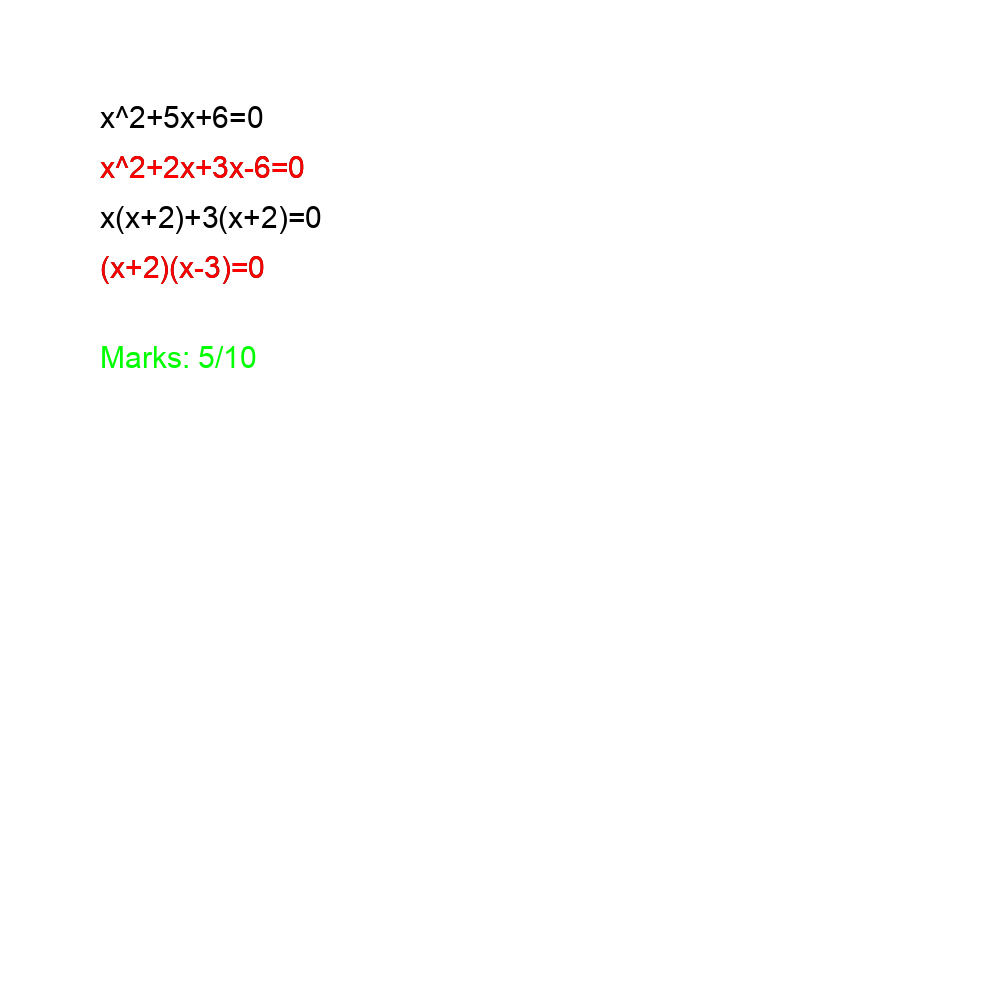
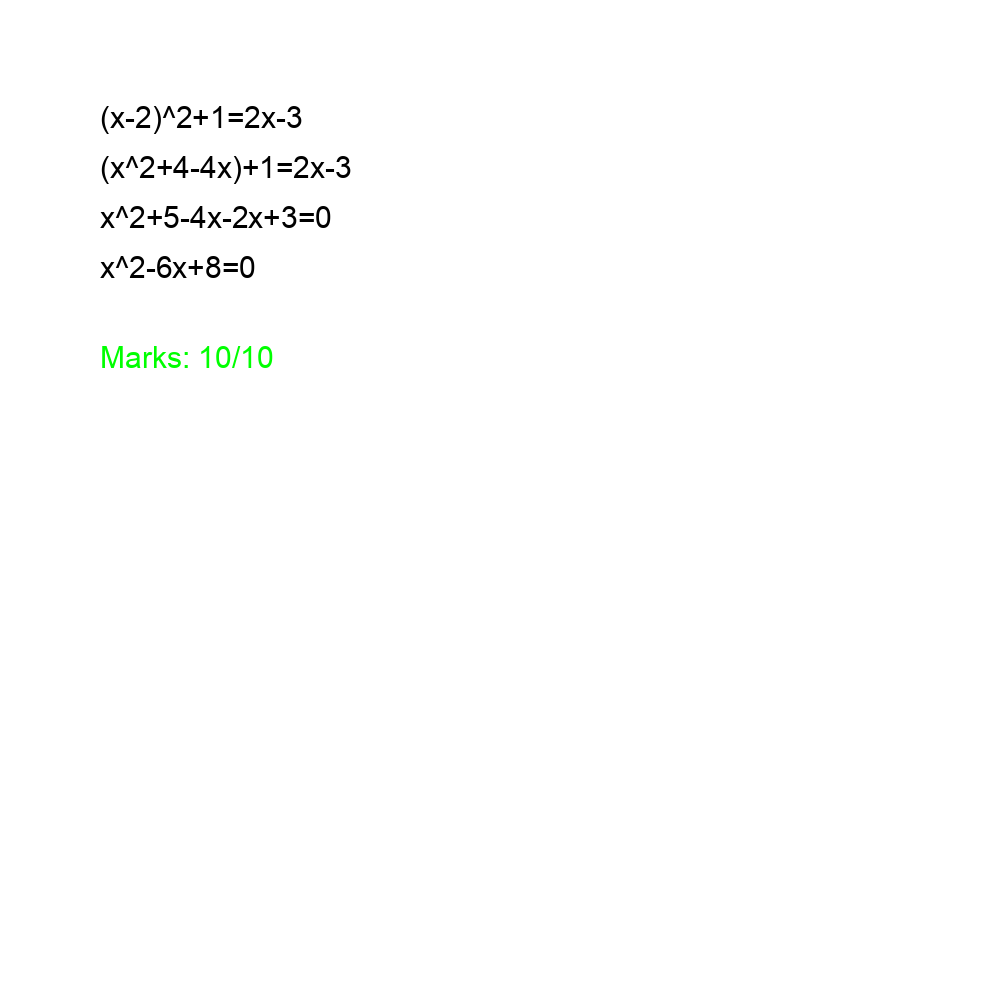
start new method

Changed region(s): [[0.093, 0.093, 0.372, 0.279], [0.186, 0.341, 0.279, 0.372]]

diff --git a/app/test/sample1.py b/app/test/sample1.py
@@ -1,42 +1,69 @@
+# import libraries
+import cv2
+import requests
+from sympy.printing.preview import preview
+from PIL import Image, ImageFont, ImageDraw
+from pix2tex.cli import LatexOCR
+import base64
+import numpy as np
 from latex2sympy2 import latex2sympy, latex2latex
 import re
-# from pix2tex.cli import LatexOCR
 import matplotlib.pyplot as plt
-from PIL import Image
 
 
-# def image_to_latex(image_path):
-#     img = Image.open(image_path)
-#     model = LatexOCR()
-#     extracted_text = model(img)
-#     return extracted_text
+def open_camera():
+    # Initialize webcam
+    # cap = cv2.VideoCapture(0)
+    cap = cv2.VideoCapture("http://192.168.1.100:4747/video")
+
+    # Capture an image when space key is pressed
+    while True:
+        ret, frame = cap.read()
+        cv2.imshow("Image Capture", frame)
+        if cv2.waitKey(1) == ord(" "):
+            cv2.imwrite("app/images/captured_image.png", frame)
+            break
+
+    # Release webcam and close all windows
+    cap.release()
+    cv2.destroyAllWindows()
+
+    # Return captured image
+    return frame
+
+
+def image_to_latex(image_path):
+    img = Image.open(image_path)
+    model = LatexOCR()
+    extracted_text = model(img)
+    extracted_text = r"\left." + extracted_text + r"\right."
+    return extracted_text
 
 
 def split_into_equations(s):
-    # replace ' ' with ''   
-    s = s.replace(' ','')
+    # print(s)
+    # Remove unnecessary spaces and line breaks
+    s = s.replace(" ", "").replace("\n", "")
 
     # Pattern to identify the starting and ending points of each equation
     pattern = r"\\begin\{array\}\{[a-zA-Z]\}(.*?)\\end\{array\}"
 
     # Search for the pattern in the string
     matches = re.findall(pattern, s)
-    
-    # Remove leading and trailing curly braces and split equations based on '\\'
-    equations = [match.strip("{}").split("\\\\") for match in matches]
 
-    # Flatten the list of equations and remove leading/trailing whitespace
-    equations = [eq.strip() for sublist in equations for eq in sublist]
+    # Extract the equations from the matches and split them based on '\\\\' separator
+    equations = [match.split("\\\\") for match in matches]
 
-    # Remove first '{' or last '}'  
-    equations = [eq[1:] if eq[0] == '{' else eq for eq in equations]
-    equations = [eq[:-1] if eq[-1] == '}' else eq for eq in equations]
-    
+    # Flatten the list of equations
+    equations = [eq for sublist in equations for eq in sublist]
+
+    # Remove any leading or trailing curly braces
+    equations = [eq.replace("{", "").replace("}", "").strip() for eq in equations]
+
     return equations
 
 
 def solve_equations(latex_equations):
-    # convert latex to sympy
     sympy_equations = []
     for latex_equation in latex_equations:
         sympy_equation = latex2latex(latex_equation)
@@ -45,7 +72,7 @@ def solve_equations(latex_equations):
 
 
 def check_equations(solved_equations):
-    print(solved_equations)
+    # print(solved_equations)
     first_result = solved_equations[0]
 
     # check if the equations are the same
@@ -64,31 +91,78 @@ def show_the_mistake(mistake_line_numbers, equations):
     return
 
 
-# testing
-# image_path = "app\images\correct.png"
-# image_path = "app\images\wrong1.png"
-# image_path = "app\images\wrong2.png"
-# image_path = "app\images\Capture2.PNG"
-# latex_str = image_to_latex(image_path)
-# print(latex_str)
-#added r"\left." and r"\right." to the latex_str
-# latex_str = r"\left." + latex_str + r"\right."
+def output(splitted_equations, mistake_line_numbers, marks):
+    # create a new image
+    img = Image.new("RGB", (1000, 1000), color=(255, 255, 255))
+    img.save("app/result/output.png")
+
+    # draw the equations
+    font = ImageFont.truetype("arial.ttf", 30)
+    d = ImageDraw.Draw(img)
+    # draw in middle
+    for i in range(len(splitted_equations)):
+        d.text((100, 100 + 50 * i), 
+        f"{splitted_equations[i]}",
+        fill=(0, 0, 0), font=font)
+
+    # mark the mistake
+    for i in mistake_line_numbers:
+        # d.text((10, (i - 1) * 20), splitted_equations[i - 1], fill=(255, 0, 0), font=font)
+        d.text(
+            (100, 100 + 50 * (i - 1)),
+            f"{splitted_equations[i - 1]}",
+            fill=(255, 0, 0),
+            font=font,
+        )
+
+    # draw the marks green color \n \n
+    d.text((100, 100 + 60 * len(splitted_equations)), f"Marks: {marks}", fill=(0, 255, 0), font=font)
 
 
-# latex_str = r"\begin{array}{c}{{\displaystyle\int_{1}^{2}{\frac{\displaystyle3}{2x^{2}+x-1}}{\displaystyle dx}}}\\\\{{\displaystyle\int_{1}^{2}{\frac{\displaystyle3}{\displaystyle(2x-1)(x+1)}}{\displaystyle dx}}}\\\\{{\displaystyle\int_{1}^{2}{\frac{\displaystyle2}{\displaystyle(2x-1)}}+{\frac{\displaystyle1}{\displaystyle(x+1)}}{\displaystyle dx}}}\\\\{{{\frac{\displaystyle(2\ln3)}{\displaystyle2}-\frac{\displaystyle(2\ln1)}{\displaystyle2}}}}\\\\\ln( 9/2)\end{array}"  # wrong
-# latex_str = r"\left.\begin{array}{l}{x^{2}+5x+6=0}\\{x^{2}+2x+3x-6=0}\\{(x+2)(x-3)=0}\end{array}\right." #correct
-latex_str = r"\left.\begin{array}{c}{\int _{1}^{2}\dfrac{3}{2x^{2}+x-1}dx}\\{\int _{1}^{2}\dfrac{3}{( 2x-1)(x+1)}dx}\\{\int _{1}^{2}\dfrac{2}{(2x-1)}+\dfrac{1}{(x+1)}dx}\\{\dfrac{(2\ln3)}{2}-\dfrac{(2\ln1)}{2}}\\{\ln(9/2)}\end{array}\right."
-latex_str = r"\left.\begin{array}{c}{\int _{1}^{2}\dfrac{3}{2x^{2}+x-1}dx}\\{\int _{1}^{2}\dfrac{3}{( 2x-1)(x+1)}dx}\\{\int _{1}^{2}\dfrac{2}{(2x-1)}+\dfrac{-1}{(x+1)}dx}\\{\dfrac{(2\ln3)}{2}-\dfrac{(2\ln1)}{2}-(\ln3-\ln2)}\\{\ln2}\end{array}\right."
-splited_equations = split_into_equations(latex_str)
-print(splited_equations)
+    # save the image and preview it
+    img.save("app/result/output.png")
+    img.show()
 
-# splited_equations = ["x^2+5x+6=0", "x^2+2x+3x-6=0", "(x+2)(x+3)=0"]
-solved_equations = solve_equations(splited_equations)
-print(solved_equations)
-mistake_line_numbers = check_equations(solved_equations)
 
-# where the mistake
-if len(mistake_line_numbers) == 0:
-    print("No mistake! Good job!")
-else:
-    show_the_mistake(mistake_line_numbers, splited_equations)
+# main function
+if __name__ == "__main__":
+    # step 1: open camera
+    # image = open_camera()
+
+    # step 2: preview image
+    # cv2.imshow("Image Preview", image)
+    # cv2.waitKey(0)
+    # cv2.destroyAllWindows()
+
+    # step 3: image to latex
+    # image_path = "app\images\demo1.png"     # no mistake
+    # image_path = "app\images\demo2.png"   # mistake in line 2
+    # image_path = "app\images\demo3.png"   # mistake in line 2 and 3
+
+    # latex_str = image_to_latex(image_path)
+    latex_str = r"\left.\begin{array}{c}{(x-2)^2+1=2x-3}\\{(x^2+4-4x)+1=2x-3}\\{x^2+5-4x-2x+3=0}\\{x^2-6x+8=0}\end{array}\right."
+
+    # step 4: split into equations
+    splitted_equations = split_into_equations(latex_str)
+
+    # step 5: solve equations
+    solved_equations = solve_equations(splitted_equations)
+    print(solved_equations)
+    # step 6: check equations
+    mistake_line_numbers = check_equations(solved_equations)
+
+    # step 7: show the mistake
+    marks = ''
+    if len(mistake_line_numbers) == 0:
+        print("\nNo mistake! Good job!")
+        print("You got 10 out of 10!\n")
+        marks = '10/10'
+    else:
+        show_the_mistake(mistake_line_numbers, splitted_equations)
+        print("\n Total marks is 10. Total mistake is", len(mistake_line_numbers))
+        mark = input("How many marks do you want to give? = ")
+        marks = str(int(mark)) + "/10"
+
+
+    # step 8: create a new image with the splitted equations and mark the mistake and show the marks
+    output(splitted_equations, mistake_line_numbers, marks)

diff --git a/app/test/latextoimage.py b/app/test/latextoimage.py
@@ -9,10 +9,10 @@ def latex_to_image(latex_str, output_filename):
 
 
 # Example LaTeX expression
-latex_expression = r"\left.\begin{array}{c}{x^{2}+5x+6=0}\to{x^{2}+2x+3x-6=0}\\{x(x+2)+ 3 (x+2)=0}\to{(x+2)(x-3)=0}\end{array}\right."
+latex_expression = r"\left.\begin{array}{c}{(x-2)^2+1=2x-3}\\{(x^2+4-4x)+1=2x-3}\\{x^2+5-4x-2x+3=0}\\{x^2-6x+8=0}\end{array}\right."
                             
 # Output filename for the image (PNG format)
-output_filename = "latex_image.png"
+output_filename = "app/test/images/latex.png"
 
 # Convert LaTeX to image
 latex_to_image(latex_expression, output_filename)

diff --git a/app/test/extract_latex_code.py b/app/test/extract_latex_code.py
@@ -1,0 +1,30 @@
+import os
+import zipfile
+
+# https://mathpix.com/docs/snip/mpx-cli
+
+file_path = 'app/generated/output.tex.zip'
+
+# rename the file
+os.rename(file_path, 'app/generated/output.tex')
+
+# read the file
+with open('app/generated/output.tex', 'r') as file:
+    data = file.read()
+
+print(data)
+print(type(data))
+
+# remove ' ' from the string
+data = data.replace(' ', '')
+
+print(data)
+
+# remove first '\[' and last '\]' if they exist
+if data.startswith('\['):
+    data = data[2:]
+if data.endswith('\]'):
+    data = data[:-2]
+
+print(data)
+
